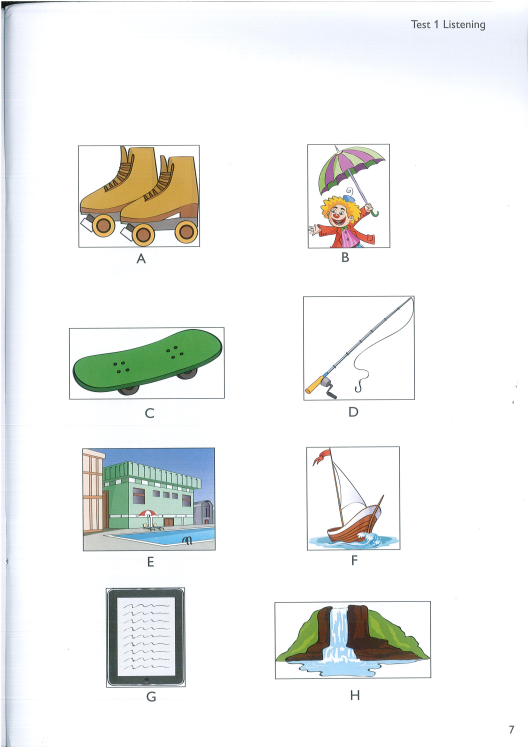
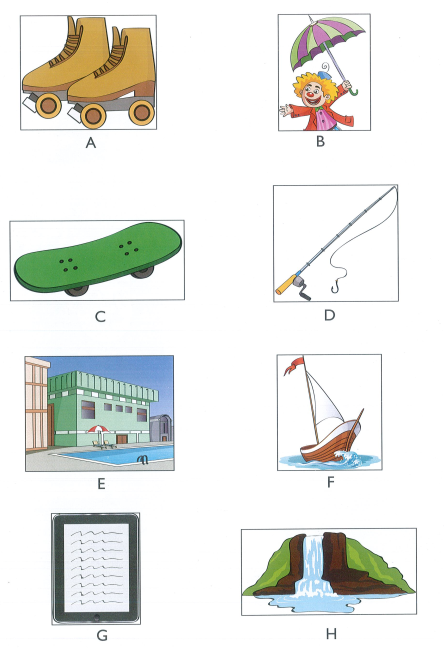
Update listening test 1 images for parts 1, 2, and 3
- Part 1: Replace classroom image with higher quality webp
- Part 2: Add sports centre image and display it in fill-blank renderer
- Part 3: Update people and activities images with clearer versions

Claude-Session: https://claude.ai/code/session_01J8NujCZJLpRiduYAkdeME4

diff --git a/index.html b/index.html
@@ -1432,6 +1432,7 @@
             let html = `
             <div class="max-w-2xl mx-auto">
                 <p class="text-slate-500 italic mb-4 text-sm"><i class="fa-solid fa-info-circle mr-1"></i> ${part.instructions}</p>
+                ${part.image ? `<div class="mb-4 text-center"><img src="${part.image}" alt="" class="rounded-2xl shadow-sm border max-w-full mx-auto" style="max-height:240px;object-fit:contain"></div>` : ''}
                 <div class="bg-white rounded-2xl shadow-sm border p-6 sm:p-8">
                     <h3 class="text-2xl font-bold text-slate-800 text-center mb-6 pb-4 border-b">${part.formTitle}</h3>
                     <div class="space-y-5">
